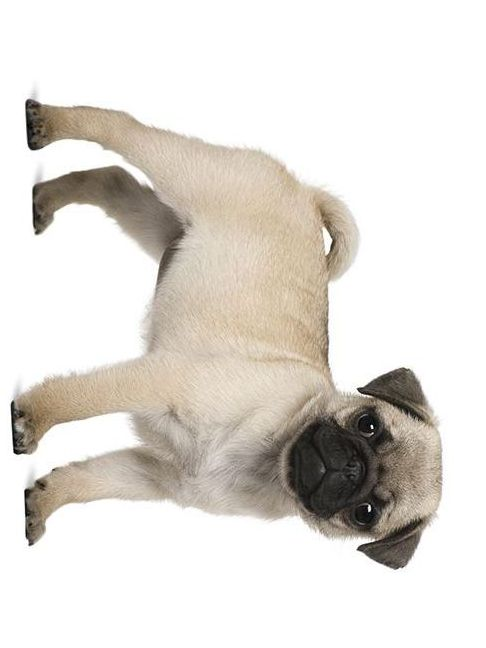
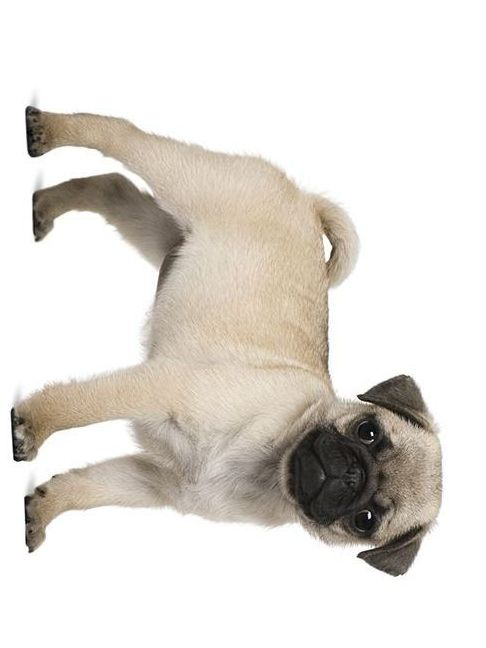
upload

Changed region(s): [[0.0, 0.1543, 0.9259, 0.8951]]

diff --git a/bundle.js b/bundle.js
@@ -1,1 +1,1 @@
-(()=>{var e={574(e,a,t){const n=()=>{XR8.XrController.configure({imageTargetData:[t(115)]})};window.XR8?n():window.addEventListener("xrloaded",n)},115(e){"use strict";e.exports=JSON.parse('{"type":"PLANAR","properties":{"top":11,"left":0,"width":486,"height":648,"isRotated":true,"originalWidth":486,"originalHeight":729},"imagePath":"image-targets/artwork_luminance.jpg","metadata":null,"name":"artwork","resources":{"originalImage":"artwork_original.jpg","croppedImage":"artwork_cropped.jpg","thumbnailImage":"artwork_thumbnail.jpg","luminanceImage":"artwork_luminance.jpg"},"created":1792028061895,"updated":1792028639097}')}};const a={};function t(n){const r=a[n];if(void 0!==r)return r.exports;const i=a[n]={exports:{}};return e[n](i,i.exports,t),i.exports}(()=>{"use strict";t(574);const e=window.ecs;function a(e){return"object"==typeof e&&null!==e&&"name"in e&&"string"==typeof e.name}e.registerComponent({name:"T01 AR Canvas Fade",schema:{overlay:e.eid,targetName:e.string,fadeSeconds:e.f32,startOpacity:e.f32,endOpacity:e.f32},schemaDefaults:{targetName:"artwork",fadeSeconds:2,startOpacity:0,endOpacity:1},data:{elapsed:e.f32,playing:e.boolean},add:(a,t)=>{const{overlay:n,startOpacity:r}=t.schema;e.Material.has(a,n)&&e.Material.mutate(a,n,e=>(e.opacity=Math.max(0,Math.min(1,r)),!1))},tick:(a,t)=>{const{overlay:n,fadeSeconds:r,startOpacity:i,endOpacity:d}=t.schema;if(!t.data.playing||!e.Material.has(a,n))return;t.data.elapsed+=a.time.delta/1e3;const o=Math.min(1,t.data.elapsed/Math.max(.001,r)),c=Math.max(0,Math.min(1,i+(d-i)*o));e.Material.mutate(a,n,e=>(e.opacity=c,!1)),o>=1&&(t.data.playing=!1)},stateMachine:({world:t,eid:n,schemaAttribute:r,dataAttribute:i})=>{e.defineState("ready").initial().listen(t.events.globalId,e.events.REALITY_IMAGE_FOUND,e=>{const t=r.get(n);if(!a(e.data))return;if(e.data.name!==t.targetName)return;const d=i.get(n);i.set(n,{...d,elapsed:0,playing:!0})}).listen(t.events.globalId,e.events.REALITY_IMAGE_LOST,d=>{const o=r.get(n);if(!a(d.data))return;if(d.data.name!==o.targetName)return;const c=i.get(n);i.set(n,{...c,elapsed:0,playing:!1}),e.Material.has(t,o.overlay)&&e.Material.mutate(t,o.overlay,e=>(e.opacity=o.startOpacity,!1))})}}),e.registerComponent({name:"example-component",add:()=>{console.log("Component attached.")}});const n=JSON.parse('{"objects":{"47699d9e-18a5-4f88-a4f9-b8be92e8f74a":{"components":{},"geometry":null,"id":"47699d9e-18a5-4f88-a4f9-b8be92e8f74a","light":{"type":"ambient"},"material":null,"name":"Ambient Light","position":[10,5,5],"rotation":[0,0,0,1],"scale":[1,1,1],"parentId":"88453035-dc0f-486d-868a-8ff7c2fda864","order":0.4038940050501252},"a608ddd9-9379-464d-966f-5d8d8674c83c":{"camera":{"type":"perspective","xr":{"desktop":"disabled","xrCameraType":"world","headset":"disabled","phone":"AR"}},"components":{},"geometry":null,"id":"a608ddd9-9379-464d-966f-5d8d8674c83c","material":null,"name":"Camera","position":[0,2,3],"rotation":[0.0004436887233141012,0.9659425615285845,-0.25875089860082223,0.0016563336561801576],"scale":[1,1,1],"parentId":"88453035-dc0f-486d-868a-8ff7c2fda864","order":1.0308214152219775},"ac1989e3-3b71-49e2-a05f-e682aeb18c36":{"components":{},"geometry":null,"id":"ac1989e3-3b71-49e2-a05f-e682aeb18c36","light":{"intensity":1,"type":"directional"},"material":null,"name":"Directional Light","position":[20,50,10],"rotation":[0,0,0,1],"scale":[1,1,1],"parentId":"88453035-dc0f-486d-868a-8ff7c2fda864","order":0.6644431107322474},"213c1fb1-9d90-41e7-b53c-23c9e4fc31ab":{"id":"213c1fb1-9d90-41e7-b53c-23c9e4fc31ab","position":[0,0,0],"rotation":[0,0,0,1],"scale":[1,1,1],"geometry":null,"material":null,"parentId":"88453035-dc0f-486d-868a-8ff7c2fda864","components":{"fc52a578-7242-4a3a-8c63-7fa5f2a0fe48":{"id":"fc52a578-7242-4a3a-8c63-7fa5f2a0fe48","name":"T01 AR Canvas Fade","parameters":{"overlay":{"type":"entity","id":"57e77cfc-055b-4a12-ae0c-cfbd3d502e8b"}}}},"name":"Image Target","imageTarget":{"name":"artwork"},"order":2.6198915199488155},"57e77cfc-055b-4a12-ae0c-cfbd3d502e8b":{"id":"57e77cfc-055b-4a12-ae0c-cfbd3d502e8b","position":[0,0,0.01],"rotation":[0,0,0,1],"scale":[1,1,1],"geometry":{"type":"plane","width":1,"height":1},"material":{"type":"basic","color":"#FFFFFF","textureSrc":{"type":"asset","asset":"assets/artwork2.jpg"}},"parentId":"213c1fb1-9d90-41e7-b53c-23c9e4fc31ab","components":{},"name":"Plane","order":1.6597129610356767}},"spaces":{"88453035-dc0f-486d-868a-8ff7c2fda864":{"id":"88453035-dc0f-486d-868a-8ff7c2fda864","name":"Default Space","activeCamera":"a608ddd9-9379-464d-966f-5d8d8674c83c"}},"entrySpaceId":"88453035-dc0f-486d-868a-8ff7c2fda864"}');delete n.history,delete n.historyVersion,window.ecs.application.init(n)})()})();
+(()=>{var e={574(e,a,t){const n=()=>{XR8.XrController.configure({imageTargetData:[t(115)]})};window.XR8?n():window.addEventListener("xrloaded",n)},115(e){"use strict";e.exports=JSON.parse('{"type":"PLANAR","properties":{"top":4,"left":0,"width":486,"height":648,"isRotated":true,"originalWidth":486,"originalHeight":729},"imagePath":"image-targets/artwork_luminance.jpg","metadata":null,"name":"artwork","resources":{"originalImage":"artwork_original.jpg","croppedImage":"artwork_cropped.jpg","thumbnailImage":"artwork_thumbnail.jpg","luminanceImage":"artwork_luminance.jpg"},"created":1792034253210,"updated":1792034260378}')}};const a={};function t(n){const r=a[n];if(void 0!==r)return r.exports;const o=a[n]={exports:{}};return e[n](o,o.exports,t),o.exports}(()=>{"use strict";t(574);const e=window.ecs;function a(e){return"object"==typeof e&&null!==e&&"name"in e&&"string"==typeof e.name}function n(e){return Math.max(0,Math.min(1,e))}e.registerComponent({name:"T01 AR Canvas Fade",schema:{overlay:e.eid,targetName:e.string,fadeSeconds:e.f32,startOpacity:e.f32,endOpacity:e.f32,enableTap:e.boolean,allowTapDuringFade:e.boolean,resetOnTargetLost:e.boolean,tapTarget:e.eid},schemaDefaults:{targetName:"artwork",fadeSeconds:2,startOpacity:0,endOpacity:1,enableTap:!0,allowTapDuringFade:!1,resetOnTargetLost:!0},data:{elapsed:e.f32,playing:e.boolean,tracked:e.boolean,shown:e.boolean,hasStarted:e.boolean},add:(a,t)=>{const{overlay:r,startOpacity:o}=t.schema;e.Material.has(a,r)&&e.Material.mutate(a,r,e=>(e.opacity=n(o),!1))},tick:(a,t)=>{const{overlay:r,fadeSeconds:o,startOpacity:d,endOpacity:i}=t.schema;if(!t.data.playing||!e.Material.has(a,r))return;t.data.elapsed+=a.time.delta/1e3;const s=Math.min(1,t.data.elapsed/Math.max(.001,o)),c=n(d+(i-d)*s);e.Material.mutate(a,r,e=>(e.opacity=c,!1)),s>=1&&(t.data.playing=!1)},stateMachine:({world:t,eid:r,schemaAttribute:o,dataAttribute:d})=>{e.defineState("ready").initial().listen(t.events.globalId,e.events.REALITY_IMAGE_FOUND,i=>{const s=o.get(r);if(!a(i.data)||i.data.name!==s.targetName)return;const c=d.get(r),l=s.resetOnTargetLost||!c.hasStarted;d.set(r,{...c,elapsed:l?0:c.elapsed,playing:l,tracked:!0,shown:!!l||c.shown,hasStarted:!0}),l&&e.Material.has(t,s.overlay)&&e.Material.mutate(t,s.overlay,e=>(e.opacity=n(s.startOpacity),!1))}).listen(t.events.globalId,e.events.REALITY_IMAGE_LOST,i=>{const s=o.get(r);if(!a(i.data)||i.data.name!==s.targetName)return;const c=d.get(r);d.set(r,{...c,elapsed:s.resetOnTargetLost?0:c.elapsed,playing:!1,tracked:!1,shown:!s.resetOnTargetLost&&c.shown}),s.resetOnTargetLost&&e.Material.has(t,s.overlay)&&e.Material.mutate(t,s.overlay,e=>(e.opacity=n(s.startOpacity),!1))}).listen(t.events.globalId,e.input.SCREEN_TOUCH_START,a=>{const i=o.get(r),s=d.get(r);if(!i.enableTap||!s.tracked)return;if(s.playing&&!i.allowTapDuringFade)return;if(l=i.tapTarget||i.overlay,"object"!=typeof(c=a.data)||null===c||!("target"in c)||c.target!==l)return;var c,l;const p=!s.shown;d.set(r,{...s,shown:p,playing:!1}),e.Material.has(t,i.overlay)&&e.Material.mutate(t,i.overlay,e=>(e.opacity=p?n(i.endOpacity):0,!1))})}}),e.registerComponent({name:"example-component",add:()=>{console.log("Component attached.")}});const r=JSON.parse('{"objects":{"47699d9e-18a5-4f88-a4f9-b8be92e8f74a":{"components":{},"geometry":null,"id":"47699d9e-18a5-4f88-a4f9-b8be92e8f74a","light":{"type":"ambient"},"material":null,"name":"Ambient Light","position":[10,5,5],"rotation":[0,0,0,1],"scale":[1,1,1],"parentId":"88453035-dc0f-486d-868a-8ff7c2fda864","order":0.4038940050501252},"a608ddd9-9379-464d-966f-5d8d8674c83c":{"camera":{"type":"perspective","xr":{"desktop":"disabled","xrCameraType":"world","headset":"disabled","phone":"AR"}},"components":{},"geometry":null,"id":"a608ddd9-9379-464d-966f-5d8d8674c83c","material":null,"name":"Camera","position":[0,2,3],"rotation":[0.0004436887233141012,0.9659425615285845,-0.25875089860082223,0.0016563336561801576],"scale":[1,1,1],"parentId":"88453035-dc0f-486d-868a-8ff7c2fda864","order":1.0308214152219775},"ac1989e3-3b71-49e2-a05f-e682aeb18c36":{"components":{},"geometry":null,"id":"ac1989e3-3b71-49e2-a05f-e682aeb18c36","light":{"intensity":1,"type":"directional"},"material":null,"name":"Directional Light","position":[20,50,10],"rotation":[0,0,0,1],"scale":[1,1,1],"parentId":"88453035-dc0f-486d-868a-8ff7c2fda864","order":0.6644431107322474},"7315cce3-21f6-4065-9e8c-1aea344b7eb9":{"id":"7315cce3-21f6-4065-9e8c-1aea344b7eb9","position":[0,0,0],"rotation":[0,0,0,1],"scale":[1,1,1],"geometry":null,"material":null,"parentId":"88453035-dc0f-486d-868a-8ff7c2fda864","components":{"99b902df-f6de-4319-b4c9-b23fe00bb607":{"id":"99b902df-f6de-4319-b4c9-b23fe00bb607","name":"T01 AR Canvas Fade","parameters":{"overlay":{"type":"entity","id":"06e7aecf-bf5c-48d7-8a65-d075787d61c6"}}}},"name":"Image Target","imageTarget":{"name":"artwork"},"order":2.1244484705831606},"06e7aecf-bf5c-48d7-8a65-d075787d61c6":{"id":"06e7aecf-bf5c-48d7-8a65-d075787d61c6","position":[0,0,0.01],"rotation":[0,0,0,1],"scale":[1,1,1],"geometry":{"type":"plane","width":1,"height":1},"material":{"type":"basic","color":"#FFFFFF","textureSrc":{"type":"asset","asset":"assets/20221212_214524.png"}},"parentId":"7315cce3-21f6-4065-9e8c-1aea344b7eb9","components":{},"name":"Plane","order":1.8811582792612236}},"spaces":{"88453035-dc0f-486d-868a-8ff7c2fda864":{"id":"88453035-dc0f-486d-868a-8ff7c2fda864","name":"Default Space","activeCamera":"a608ddd9-9379-464d-966f-5d8d8674c83c"}},"entrySpaceId":"88453035-dc0f-486d-868a-8ff7c2fda864"}');delete r.history,delete r.historyVersion,window.ecs.application.init(r)})()})();
